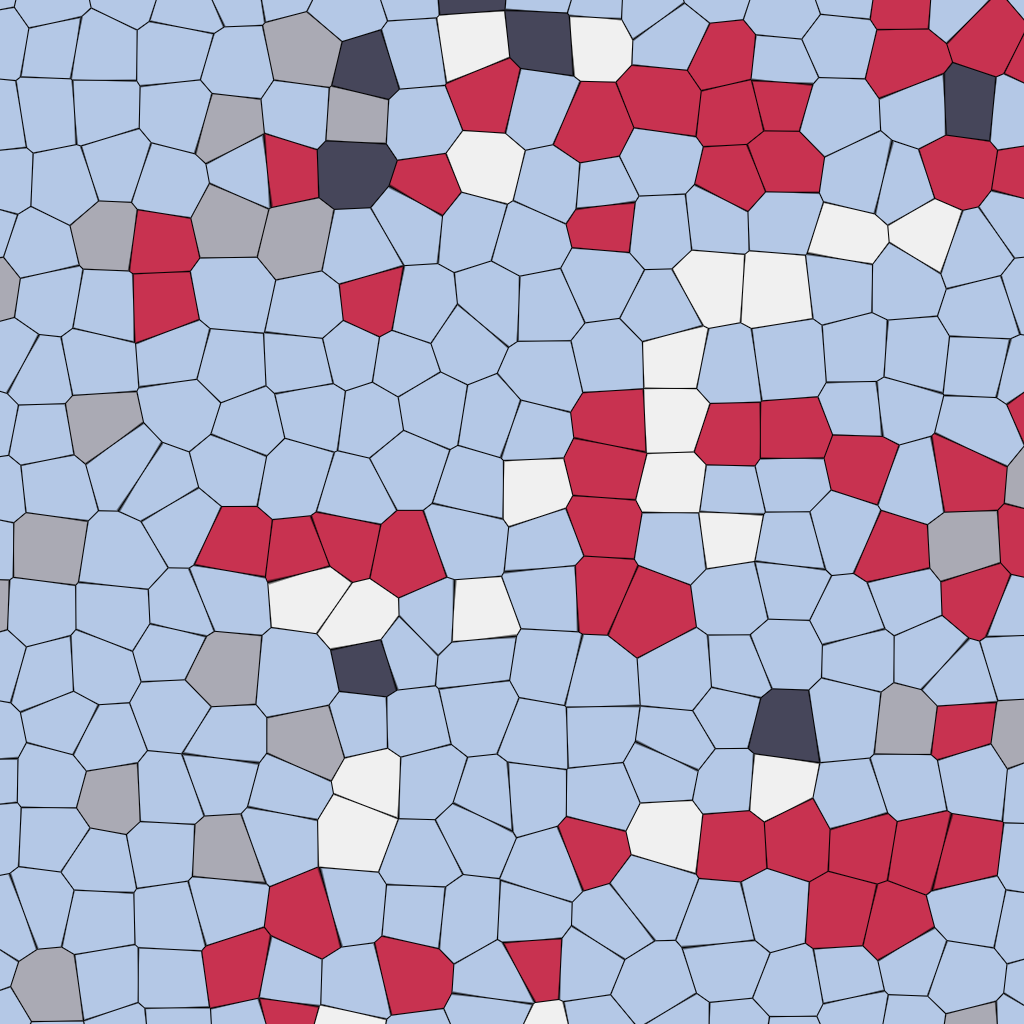
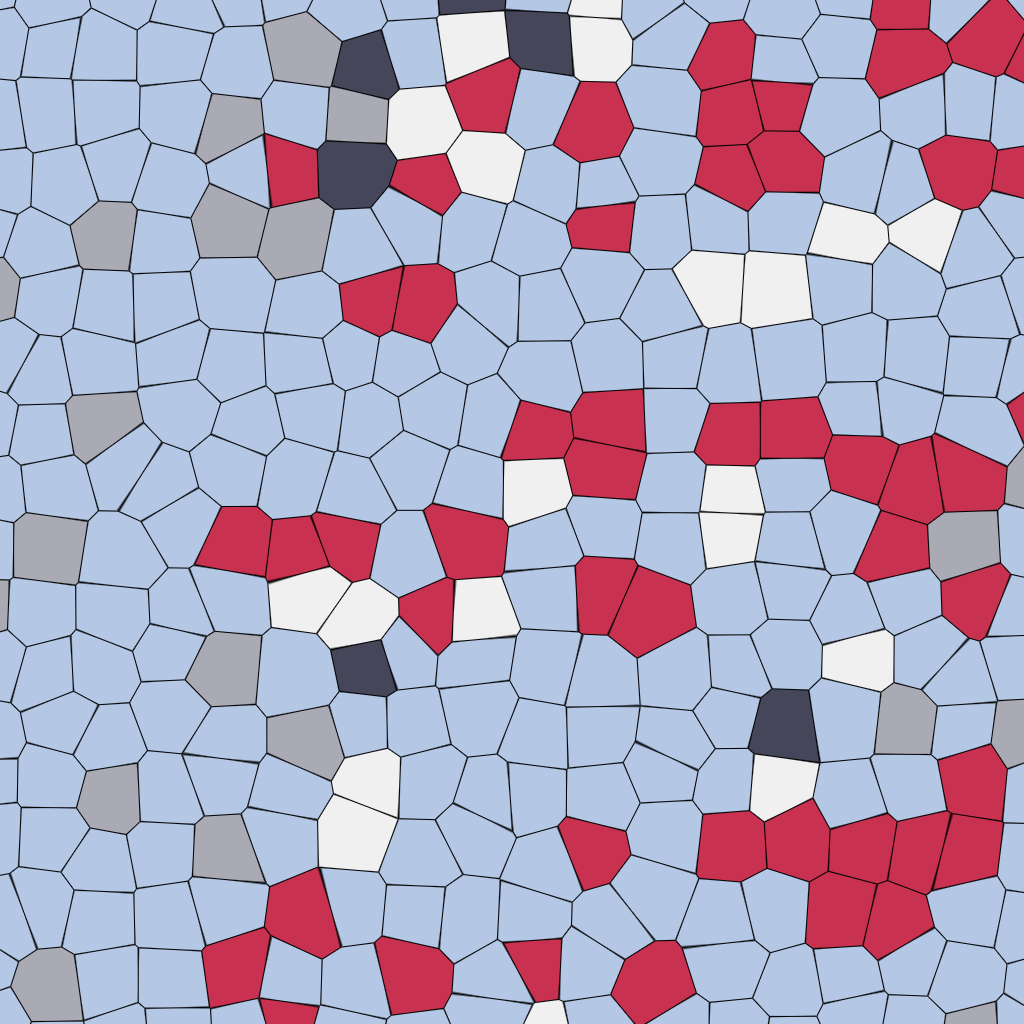
Phase 3.2.2: Per-type tuned evolution rate

diff --git a/crates/world/src/weather/cell_state.rs b/crates/world/src/weather/cell_state.rs
@@ -100,14 +100,68 @@ const WIND_SAMPLE_ALTITUDE_M: f32 = 2_000.0;
 const CELL_STATE_TAG: u64 = u64::from_le_bytes(*b"cellstat");
 const CELL_OFFSET_TAG: u64 = u64::from_le_bytes(*b"celloff_");
 
-/// Full life cycle duration of a weather cell (s).
+/// Default life-cycle duration per cell type (seconds).
 ///
-/// 6 hours is the midpoint of real cell lifetimes: a fair-weather cumulus
-/// lives 30–60 min; a stratus deck persists 4–8 hours; a mesoscale
-/// convective system 3–6 hours. Using one fixed duration keeps the pure-
-/// function model simple; per-type duration variability is a future
-/// enhancement.
-pub const CELL_CYCLE_DURATION_S: f32 = 6.0 * 3_600.0;
+/// Values match real-world atmospheric timescales:
+/// - Fair-weather cumulus: 30–90 min — rapid formation + dissipation.
+/// - Cumulonimbus / nimbus: 1.5–3 hr — one convective "pulse".
+/// - Stratus decks: 4–8 hr — persistent boundary-layer features.
+/// - Squall line: 30 min–2 hr — fast-moving gust-front pulse.
+/// - Frontal-passage cells: 6–10 hr — slow synoptic system crossing.
+///
+/// `ClearAir` is unused (cleared cells have no life cycle).
+const DEFAULT_TYPE_CYCLE_S: [f32; 6] = [
+    0.0,           // ClearAir
+    1.5 * 3_600.0, // Cumulus
+    2.5 * 3_600.0, // Nimbus
+    6.0 * 3_600.0, // Stratus
+    1.5 * 3_600.0, // Squall
+    8.0 * 3_600.0, // Frontal
+];
+
+/// Player-tunable weather-pacing configuration.
+///
+/// Captured at session start alongside `master_seed`; threaded through
+/// evolution-aware APIs (`*_with_tuning` variants). Not meant to be mutated
+/// mid-flight — changes break determinism + save-format assumptions.
+///
+/// See memory `weather_tuning_user_surface` for the seed-creation UI intent.
+#[derive(Copy, Clone, Debug)]
+pub struct WeatherTuning {
+    /// Life-cycle duration in seconds per `CellType` (indexed by enum tag).
+    pub type_cycle_s: [f32; 6],
+}
+
+impl WeatherTuning {
+    /// Default pacing: real-world atmospheric timescales.
+    pub const DEFAULT: Self = Self {
+        type_cycle_s: DEFAULT_TYPE_CYCLE_S,
+    };
+
+    /// Apply a global multiplier to every type's cycle duration. `0.5` =
+    /// weather cycles 2× faster than default; `2.0` = half-speed. Intended
+    /// for "fast / normal / slow" presets at the seed-creation UI.
+    #[must_use]
+    pub fn with_global_multiplier(multiplier: f32) -> Self {
+        let mut out = Self::DEFAULT;
+        for d in &mut out.type_cycle_s {
+            *d *= multiplier;
+        }
+        out
+    }
+}
+
+impl Default for WeatherTuning {
+    fn default() -> Self {
+        Self::DEFAULT
+    }
+}
+
+/// Cycle duration (s) for a given cell type under a tuning.
+#[must_use]
+pub fn cycle_duration_s(cell_type: CellType, tuning: &WeatherTuning) -> f32 {
+    tuning.type_cycle_s[cell_type as usize]
+}
 
 /// Phase boundaries within a cycle: growth-peak-dissipation-dormant.
 ///
@@ -119,16 +173,17 @@ pub const GROWTH_END: f32 = 0.15;
 pub const PEAK_END: f32 = 0.60;
 pub const DISSIPATION_END: f32 = 0.85;
 
-/// Per-cell temporal offset in `[0, CELL_CYCLE_DURATION_S)`.
+/// Per-cell temporal offset as a unit fraction `∈ [0, 1)`.
 ///
-/// Deterministic per `(master_seed, cell)`. Ensures cells are at varying
-/// phases at any given sim time — a snapshot of the grid shows a mix of
-/// growing, peak, and dissipating cells rather than every cell cycling in
-/// lockstep.
+/// Deterministic per `(master_seed, cell)`; type-agnostic. Scales to
+/// seconds at phase-calc time by multiplying with the type's cycle
+/// duration. Ensures cells are at varying phases at any given sim time — a
+/// snapshot shows a mix of growing, peak, and dissipating cells rather than
+/// lockstep evolution.
 #[must_use]
 #[allow(clippy::cast_precision_loss)]
 #[allow(clippy::cast_sign_loss)]
-pub fn cell_time_offset(master_seed: u64, cell: CellId) -> f32 {
+pub fn cell_offset_unit(master_seed: u64, cell: CellId) -> f32 {
     let packed = ((cell.ix as u32 as u64) << 32) | (cell.iz as u32 as u64);
     let mut x = master_seed
         .wrapping_mul(0x9e37_79b9_7f4a_7c15)
@@ -137,22 +192,46 @@ pub fn cell_time_offset(master_seed: u64, cell: CellId) -> f32 {
     x = (x ^ (x >> 30)).wrapping_mul(0xbf58_476d_1ce4_e5b9);
     x = (x ^ (x >> 27)).wrapping_mul(0x94d0_49bb_1331_11eb);
     x ^= x >> 31;
-    let unit = ((x >> 40) as f32) / ((1u32 << 24) as f32);
-    unit * CELL_CYCLE_DURATION_S
+    ((x >> 40) as f32) / ((1u32 << 24) as f32)
 }
 
-/// Cell phase `∈ [0, 1)` at sim time `time_s`.
-///
-/// Deterministic per `(master_seed, cell, time_s)`. Phase advances linearly
-/// with time, wrapping at cycle boundaries. See [`state_at_time`] for how
-/// phase drives activity.
+/// Cell phase `∈ [0, 1)` at sim time `time_s` for a given type under a
+/// tuning. Deterministic.
+#[must_use]
+pub fn cell_phase_for_type(
+    master_seed: u64,
+    cell: CellId,
+    cell_type: CellType,
+    time_s: f32,
+    tuning: &WeatherTuning,
+) -> f32 {
+    let duration = cycle_duration_s(cell_type, tuning);
+    if duration <= 0.0 {
+        return cell_offset_unit(master_seed, cell);
+    }
+    let offset_s = cell_offset_unit(master_seed, cell) * duration;
+    let t = time_s + offset_s;
+    // Explicit mod-to-positive since time_s might be negative.
+    let cycles = libm::floorf(t / duration);
+    (t - cycles * duration) / duration
+}
+
+/// Cell phase using the default tuning. Resolves cell type internally.
 #[must_use]
 pub fn cell_phase(master_seed: u64, cell: CellId, time_s: f32) -> f32 {
-    let offset = cell_time_offset(master_seed, cell);
-    // Explicit mod-to-positive since time_s might theoretically be negative.
-    let t = time_s + offset;
-    let cycles = libm::floorf(t / CELL_CYCLE_DURATION_S);
-    (t - cycles * CELL_CYCLE_DURATION_S) / CELL_CYCLE_DURATION_S
+    cell_phase_with_tuning(master_seed, cell, time_s, &WeatherTuning::DEFAULT)
+}
+
+/// Cell phase under a custom tuning. Resolves cell type internally.
+#[must_use]
+pub fn cell_phase_with_tuning(
+    master_seed: u64,
+    cell: CellId,
+    time_s: f32,
+    tuning: &WeatherTuning,
+) -> f32 {
+    let init = initial_state(master_seed, cell, time_s);
+    cell_phase_for_type(master_seed, cell, init.cell_type, time_s, tuning)
 }
 
 /// Life-cycle activity multiplier `∈ [0, 1]` at a given phase.
@@ -175,20 +254,31 @@ pub fn lifecycle_activity(phase: f32) -> f32 {
 }
 
 /// Per-cell state at sim time `time_s`, evolved from `initial_state` through
-/// the cell's life-cycle curve.
-///
-/// Deterministic per `(master_seed, cell, time_s)`. Adjacency-bias enhancements
-/// (neighbor cell types influence re-roll at cycle boundaries) are a future
-/// refinement — the W1 substrate already provides implicit adjacency since
-/// neighboring cells share smooth pressure/temperature/humidity fields and
-/// tend to classify into similar types.
+/// the cell's life-cycle curve. Uses the default tuning.
 #[must_use]
 pub fn state_at_time(master_seed: u64, cell: CellId, time_s: f32) -> CellState {
+    state_at_time_with_tuning(master_seed, cell, time_s, &WeatherTuning::DEFAULT)
+}
+
+/// Per-cell state under a custom tuning.
+///
+/// Deterministic per `(master_seed, cell, time_s, tuning)`. Adjacency-bias
+/// enhancements (neighbor cell types influence re-roll at cycle boundaries)
+/// are a future refinement — the W1 substrate already provides implicit
+/// adjacency since neighboring cells share smooth pressure/temperature/
+/// humidity fields and tend to classify into similar types.
+#[must_use]
+pub fn state_at_time_with_tuning(
+    master_seed: u64,
+    cell: CellId,
+    time_s: f32,
+    tuning: &WeatherTuning,
+) -> CellState {
     let initial = initial_state(master_seed, cell, time_s);
     if matches!(initial.cell_type, CellType::ClearAir) {
         return initial;
     }
-    let phase = cell_phase(master_seed, cell, time_s);
+    let phase = cell_phase_for_type(master_seed, cell, initial.cell_type, time_s, tuning);
     let activity = lifecycle_activity(phase);
     if activity < 0.01 {
         return CellState {
@@ -516,19 +606,82 @@ mod tests {
 
     #[test]
     fn cell_phase_wraps_at_cycle() {
-        // Phase at time t and at time t + CELL_CYCLE_DURATION should be equal.
+        // Phase math should wrap: for a fixed type, phase at t and phase at
+        // t + cycle_duration are equal. Test the phase function directly to
+        // isolate it from W1-drift-induced type reclassification that can
+        // occur across multi-hour gaps.
         let cell = CellId { ix: 5, iz: 7 };
-        let p0 = cell_phase(42, cell, 100.0);
-        let p1 = cell_phase(42, cell, 100.0 + CELL_CYCLE_DURATION_S);
-        // Allow small float error in the modular arithmetic.
-        assert!((p0 - p1).abs() < 1e-4, "phase {p0} vs {p1} after one cycle");
+        let tuning = WeatherTuning::DEFAULT;
+        for cell_type in [
+            CellType::Cumulus,
+            CellType::Nimbus,
+            CellType::Stratus,
+            CellType::Squall,
+            CellType::Frontal,
+        ] {
+            let duration = cycle_duration_s(cell_type, &tuning);
+            let p0 = cell_phase_for_type(42, cell, cell_type, 100.0, &tuning);
+            let p1 = cell_phase_for_type(42, cell, cell_type, 100.0 + duration, &tuning);
+            assert!(
+                (p0 - p1).abs() < 1e-3,
+                "{cell_type:?}: phase {p0} vs {p1} after one cycle"
+            );
+        }
     }
 
     #[test]
     fn different_cells_have_different_offsets() {
-        let o1 = cell_time_offset(42, CellId { ix: 0, iz: 0 });
-        let o2 = cell_time_offset(42, CellId { ix: 1, iz: 0 });
+        let o1 = cell_offset_unit(42, CellId { ix: 0, iz: 0 });
+        let o2 = cell_offset_unit(42, CellId { ix: 1, iz: 0 });
         assert_ne!(o1.to_bits(), o2.to_bits());
+    }
+
+    #[test]
+    fn per_type_cycle_durations() {
+        let t = WeatherTuning::DEFAULT;
+        // Convective types cycle faster than persistent ones.
+        assert!(cycle_duration_s(CellType::Cumulus, &t) < cycle_duration_s(CellType::Stratus, &t));
+        assert!(cycle_duration_s(CellType::Squall, &t) < cycle_duration_s(CellType::Frontal, &t));
+    }
+
+    #[test]
+    fn global_multiplier_scales_all_types() {
+        let t2 = WeatherTuning::with_global_multiplier(2.0);
+        let base = WeatherTuning::DEFAULT;
+        for t in [
+            CellType::Cumulus,
+            CellType::Nimbus,
+            CellType::Stratus,
+            CellType::Squall,
+            CellType::Frontal,
+        ] {
+            let ratio = cycle_duration_s(t, &t2) / cycle_duration_s(t, &base);
+            assert!((ratio - 2.0).abs() < 1e-5);
+        }
+    }
+
+    #[test]
+    fn tuning_affects_phase() {
+        // A cell's phase under 0.5× tuning should advance twice as fast.
+        for ix in 0..30 {
+            for iz in 0..30 {
+                let cell = CellId { ix, iz };
+                let init = initial_state(42, cell, 0.0);
+                if matches!(init.cell_type, CellType::ClearAir) {
+                    continue;
+                }
+                let base = WeatherTuning::DEFAULT;
+                let fast = WeatherTuning::with_global_multiplier(0.5);
+                let t_mid = 0.5 * cycle_duration_s(init.cell_type, &base);
+                let p_base = cell_phase_with_tuning(42, cell, t_mid, &base);
+                let p_fast = cell_phase_with_tuning(42, cell, t_mid, &fast);
+                // Fast tuning should be further along in the cycle.
+                // Compare position in cycle relative to offset.
+                assert_ne!(p_base.to_bits(), p_fast.to_bits(), "tuning had no effect");
+                return;
+            }
+        }
+        panic!("no non-ClearAir cell found");
     }
 
     #[test]
@@ -551,16 +704,16 @@ mod tests {
     fn evolved_state_dormant_reports_clear_air() {
         // Find a cell that's non-ClearAir at initial, then fast-forward
         // until it's dormant and check that it reports ClearAir.
+        let tuning = WeatherTuning::DEFAULT;
         for ix in 0..30 {
             for iz in 0..30 {
                 let cell = CellId { ix, iz };
                 let init = initial_state(42, cell, 0.0);
                 if !matches!(init.cell_type, CellType::ClearAir) {
-                    // Fast-forward to time when this cell is in the dormant
-                    // phase (just before cycle wrap).
-                    let offset = cell_time_offset(42, cell);
+                    let duration = cycle_duration_s(init.cell_type, &tuning);
+                    let offset_s = cell_offset_unit(42, cell) * duration;
                     let target_phase = 0.92;
-                    let target_time = target_phase * CELL_CYCLE_DURATION_S - offset;
+                    let target_time = target_phase * duration - offset_s;
                     if target_time > 0.0 {
                         let evolved = state_at_time(42, cell, target_time);
                         assert!(
@@ -582,14 +735,16 @@ mod tests {
     fn evolved_state_peak_matches_initial() {
         // At peak phase, density and precip should equal initial values
         // (activity == 1).
+        let tuning = WeatherTuning::DEFAULT;
         for ix in 0..30 {
             for iz in 0..30 {
                 let cell = CellId { ix, iz };
                 let init = initial_state(42, cell, 0.0);
                 if !matches!(init.cell_type, CellType::ClearAir) {
-                    let offset = cell_time_offset(42, cell);
+                    let duration = cycle_duration_s(init.cell_type, &tuning);
+                    let offset_s = cell_offset_unit(42, cell) * duration;
                     let target_phase = f32::midpoint(GROWTH_END, PEAK_END);
-                    let target_time = target_phase * CELL_CYCLE_DURATION_S - offset;
+                    let target_time = target_phase * duration - offset_s;
                     if target_time > 0.0 {
                         let evolved = state_at_time(42, cell, target_time);
                         assert_eq!(evolved.density.to_bits(), init.density.to_bits());

diff --git a/crates/world/src/weather/mod.rs b/crates/world/src/weather/mod.rs
@@ -47,8 +47,9 @@ pub mod voronoi;
 pub mod wind;
 
 pub use cell_state::{
-    cell_phase, initial_state as cell_initial_state, state_at_time as cell_state_at_time,
-    CellState, CellType,
+    cell_phase, cell_phase_with_tuning, initial_state as cell_initial_state,
+    state_at_time as cell_state_at_time, state_at_time_with_tuning as cell_state_at_time_with,
+    CellState, CellType, WeatherTuning,
 };
 pub use frontal::{frontal_segments, FrontalSegment};
 pub use humidity::humidity_at;
